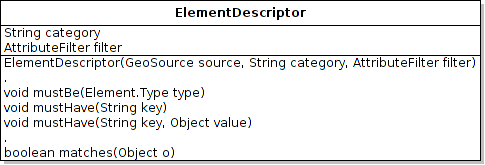
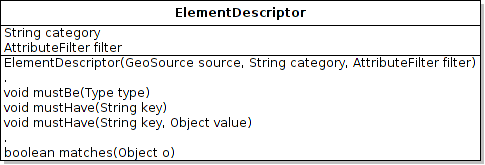
Update UML diagrams, clean up

Changed region(s): [[0.1546, 0.5152, 0.433, 0.6061]]

diff --git a/src/org/graphstream/geography/ElementView.java b/src/org/graphstream/geography/ElementView.java
@@ -80,7 +80,7 @@ public class ElementView {
 	 */
 	public String getId() {
 
-		return new String(this.element.getId());
+		return this.element.getId();
 	}
 
 	/**
